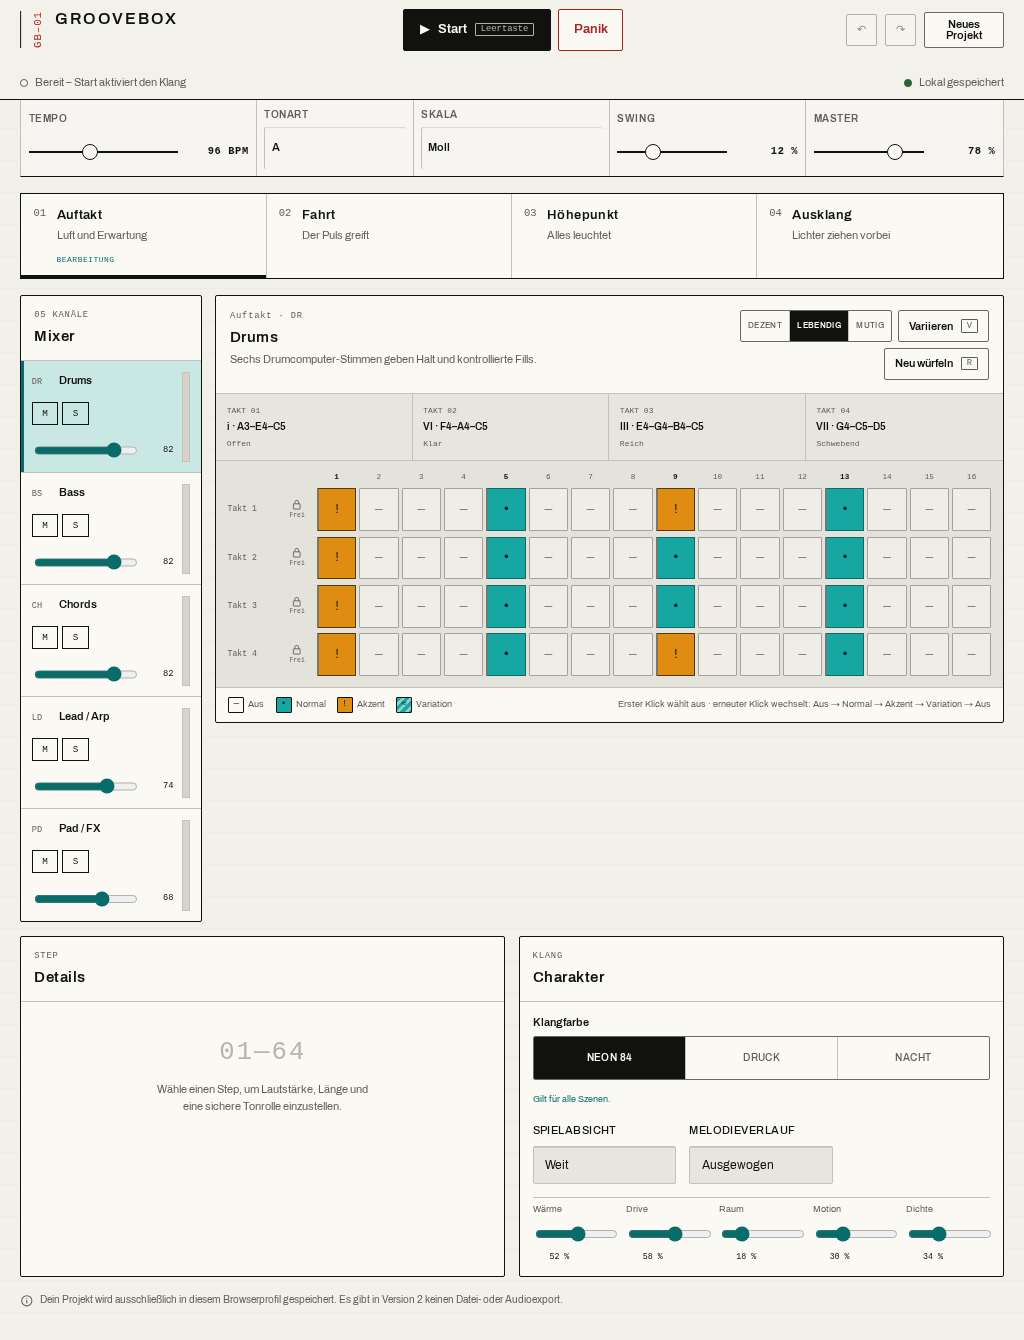
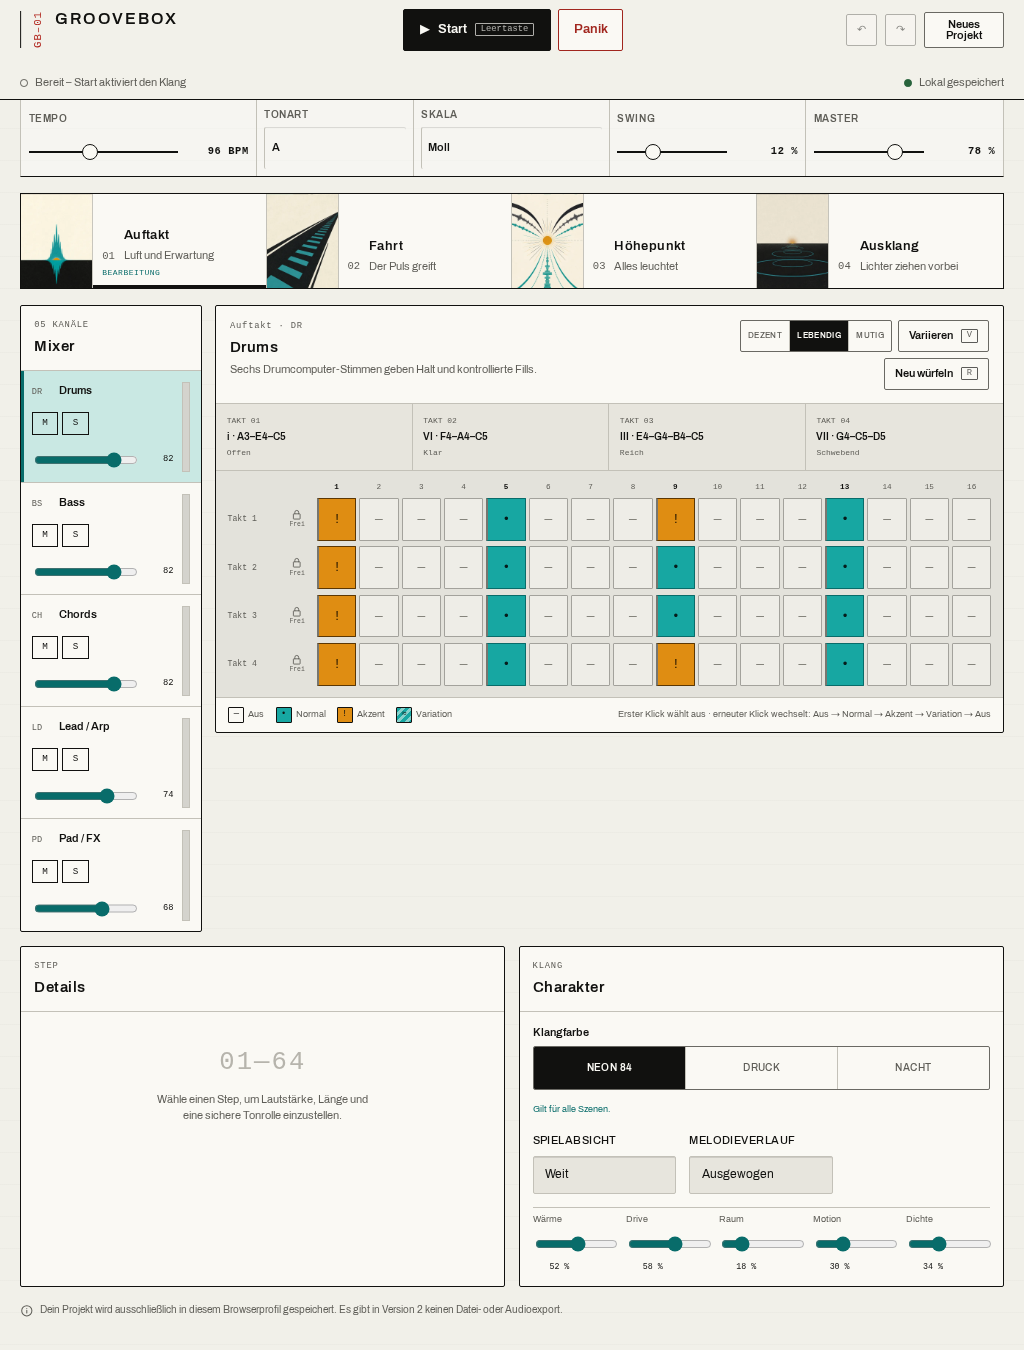
Add illustrated scene artwork

diff --git a/src/styles.css b/src/styles.css
@@ -203,12 +203,16 @@ kbd {
 .gb-scene {
   position: relative;
   display: grid;
-  min-height: 4.7rem;
-  padding: 0.75rem;
+  min-height: 5.25rem;
+  padding: 0 0.7rem 0 0;
+  overflow: hidden;
   border: 0;
   border-right: 1px solid var(--gb-rule);
-  grid-template-columns: auto 1fr;
-  gap: 0.65rem;
+  grid-template-columns: 4.5rem auto minmax(0, 1fr);
+  grid-template-rows: 1fr auto;
+  column-gap: 0.55rem;
+  row-gap: 0.18rem;
+  align-items: center;
   background: transparent;
   color: var(--gb-ink);
   text-align: left;
@@ -217,6 +221,22 @@ kbd {
 .gb-scene:last-child { border-right: 0; }
 
 .gb-scene:hover { background: var(--bu-color-surface-subtle); }
+
+.gb-scene__art {
+  width: 100%;
+  height: 100%;
+  min-height: 5.25rem;
+  border-right: 1px solid var(--gb-rule);
+  grid-column: 1;
+  grid-row: 1 / 3;
+  background-image: var(--scene-art);
+  background-position: center;
+  background-size: cover;
+  filter: saturate(0.88) contrast(1.03);
+  transition: filter 100ms ease;
+}
+
+.gb-scene:hover .gb-scene__art, .gb-scene.is-selected .gb-scene__art { filter: saturate(1) contrast(1.08); }
 
 .gb-scene.is-selected { box-shadow: inset 0 -3px 0 var(--gb-ink); }
 
@@ -238,19 +258,32 @@ kbd {
 }
 
 .gb-scene__number {
+  align-self: end;
+  grid-column: 2;
+  grid-row: 1;
   color: var(--gb-muted);
   font-family: var(--bu-font-mono);
   font-size: 0.66rem;
 }
 
-.gb-scene__copy { display: grid; gap: 0.18rem; }
+.gb-scene__copy {
+  display: grid;
+  min-width: 0;
+  align-self: end;
+  grid-column: 3;
+  grid-row: 1;
+  gap: 0.18rem;
+}
 
 .gb-scene__copy strong { font-size: 0.8rem; letter-spacing: 0.03em; }
 
 .gb-scene__copy small { color: var(--gb-muted); font-size: 0.67rem; }
 
 .gb-scene__states {
-  grid-column: 2;
+  align-self: start;
+  padding-bottom: 0.55rem;
+  grid-column: 2 / 4;
+  grid-row: 2;
   min-height: 0.65rem;
   color: var(--gb-cyan-dark);
   font-family: var(--bu-font-mono);
@@ -703,5 +736,5 @@ kbd {
 
 @media (prefers-reduced-motion: reduce) {
   .gb-scene.is-queued::before { animation: none; }
-  .gb-step, .gb-channel__meter i { transition: none; }
+  .gb-step, .gb-channel__meter i, .gb-scene__art { transition: none; }
 }

diff --git a/index.html b/index.html
@@ -5,6 +5,20 @@
     <meta name="viewport" content="width=device-width, initial-scale=1.0" />
     <meta name="theme-color" content="#e9e8e2" />
     <meta name="description" content="Eine sichere, browserbasierte Synthwave-Groovebox." />
+    <link rel="canonical" href="https://theanonymous.github.io/Groovebox/" />
+    <meta property="og:type" content="website" />
+    <meta property="og:locale" content="de_DE" />
+    <meta property="og:title" content="Groovebox · Synthwave Sequencer" />
+    <meta property="og:description" content="Vier Szenen, fünf Instrumente und 64 Steps – vollständig lokal im Browser synthetisiert." />
+    <meta property="og:url" content="https://theanonymous.github.io/Groovebox/" />
+    <meta property="og:image" content="https://theanonymous.github.io/Groovebox/assets/social/groovebox-preview.png" />
+    <meta property="og:image:width" content="1200" />
+    <meta property="og:image:height" content="630" />
+    <meta property="og:image:alt" content="Vier abstrakte Synthwave-Signale für die Szenen der Groovebox" />
+    <meta name="twitter:card" content="summary_large_image" />
+    <meta name="twitter:title" content="Groovebox · Synthwave Sequencer" />
+    <meta name="twitter:description" content="Vier Szenen, fünf Instrumente und 64 Steps – vollständig lokal im Browser synthetisiert." />
+    <meta name="twitter:image" content="https://theanonymous.github.io/Groovebox/assets/social/groovebox-preview.png" />
     <link rel="icon" href="/favicon.svg" type="image/svg+xml" />
     <title>Groovebox</title>
     <link rel="stylesheet" href="/vendor/braun-ui/braun-ui.css" />

diff --git a/e2e/visual.spec.ts b/e2e/visual.spec.ts
@@ -5,6 +5,15 @@ test.beforeEach(async ({ page, browserName }) => {
   await page.goto("./");
   await page.evaluate(() => localStorage.clear());
   await page.evaluate(() => document.fonts.ready);
+  await page.locator(".gb-scene__art").evaluateAll(async (elements) => {
+    const sources = elements.map((element) => getComputedStyle(element).backgroundImage.slice(5, -2));
+    await Promise.all(sources.map((source) => new Promise<void>((resolve, reject) => {
+      const image = new Image();
+      image.addEventListener("load", () => resolve(), { once: true });
+      image.addEventListener("error", () => reject(new Error(`Szenenbild konnte nicht geladen werden: ${source}`)), { once: true });
+      image.src = source;
+    })));
+  });
 });
 
 test("Desktop 1440 × 900", async ({ page }) => {

diff --git a/e2e/groovebox.spec.ts b/e2e/groovebox.spec.ts
@@ -23,7 +23,12 @@ test("zeigt das vollständige Desktop-Instrument ohne Laufzeitfehler", async ({ 
   await expect(page.locator('link[rel="icon"]')).toHaveAttribute("href", "/Groovebox/favicon.svg");
   await expect(page.locator(".gb-step")).toHaveCount(64);
   await expect(page.locator(".gb-scene")).toHaveCount(4);
+  await expect(page.locator(".gb-scene__art")).toHaveCount(4);
   await expect(page.locator(".gb-channel")).toHaveCount(5);
+  const sceneArt = await page.locator(".gb-scene__art").evaluateAll((elements) => elements.map((element) => getComputedStyle(element).backgroundImage));
+  expect(sceneArt).toHaveLength(4);
+  expect(sceneArt.every((image) => image.includes("/assets/scenes/") && image.endsWith('.webp\")'))).toBe(true);
+  await expect(page.locator('meta[property="og:image"]')).toHaveAttribute("content", "https://theanonymous.github.io/Groovebox/assets/social/groovebox-preview.png");
   expect(errors).toEqual([]);
   expect(externalRequests).toEqual([]);
 });

diff --git a/src/ui/app.ts b/src/ui/app.ts
@@ -36,6 +36,9 @@ import type { ProjectRepository } from "../storage";
 import type { BramsAdapter } from "./brams";
 
 const ICON_SPRITE = `${import.meta.env.BASE_URL}vendor/braun-ui/icons.svg`;
+const SCENE_ART = ["auftakt", "fahrt", "hoehepunkt", "ausklang"].map(
+  (name) => `${import.meta.env.BASE_URL}assets/scenes/${name}.webp`,
+);
 
 const TRACK_LABELS: Record<TrackKind, { name: string; short: string; description: string }> = {
   drums: { name: "Drums", short: "DR", description: "Sechs Drumcomputer-Stimmen geben Halt und kontrollierte Fills." },
@@ -259,6 +262,7 @@ export class GrooveboxApp {
         const running = state.transport.status === "playing" && state.transport.runningScene === index;
         const queued = state.transport.queuedScene === index;
         return `<button class="gb-scene ${selected ? "is-selected" : ""} ${running ? "is-running" : ""} ${queued ? "is-queued" : ""}" type="button" data-action="select-scene" data-scene="${index}" data-focus-key="scene-${index}" aria-current="${selected ? "true" : "false"}" title="${state.transport.status === "playing" ? "Zum nächsten Takt vormerken" : "Szene bearbeiten"}">
+          <span class="gb-scene__art" aria-hidden="true" style="--scene-art:url(${SCENE_ART[index]})"></span>
           <span class="gb-scene__number">0${index + 1}</span>
           <span class="gb-scene__copy"><strong>${escapeHtml(scene.name)}</strong><small>${escapeHtml(scene.subtitle)}</small></span>
           <span class="gb-scene__states">${selected ? "BEARBEITUNG" : ""}${running ? " · LÄUFT" : ""}${queued ? " · NÄCHSTER TAKT" : ""}</span>

diff --git a/README.md b/README.md
@@ -7,6 +7,8 @@ Snare, Clap, Closed/Open Hat und Tom werden lokal mit Tone.js synthetisiert.
 
 **Live:** https://theanonymous.github.io/Groovebox/
 
+![Groovebox · Synthwave Sequencer](public/assets/social/groovebox-preview.png)
+
 ## Entwicklung
 
 ```bash